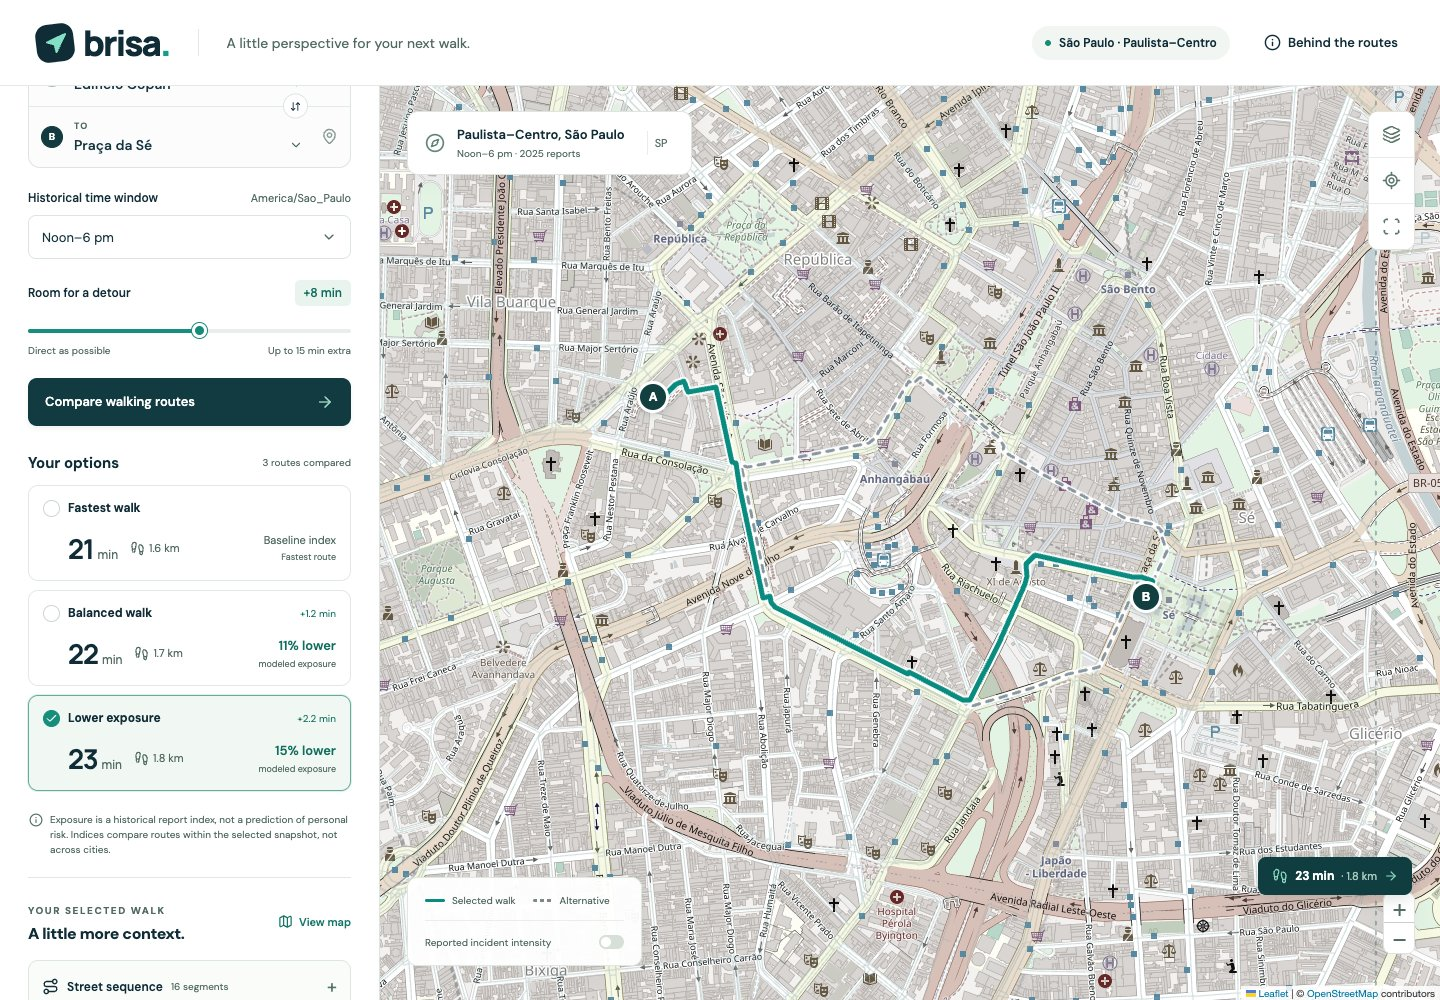
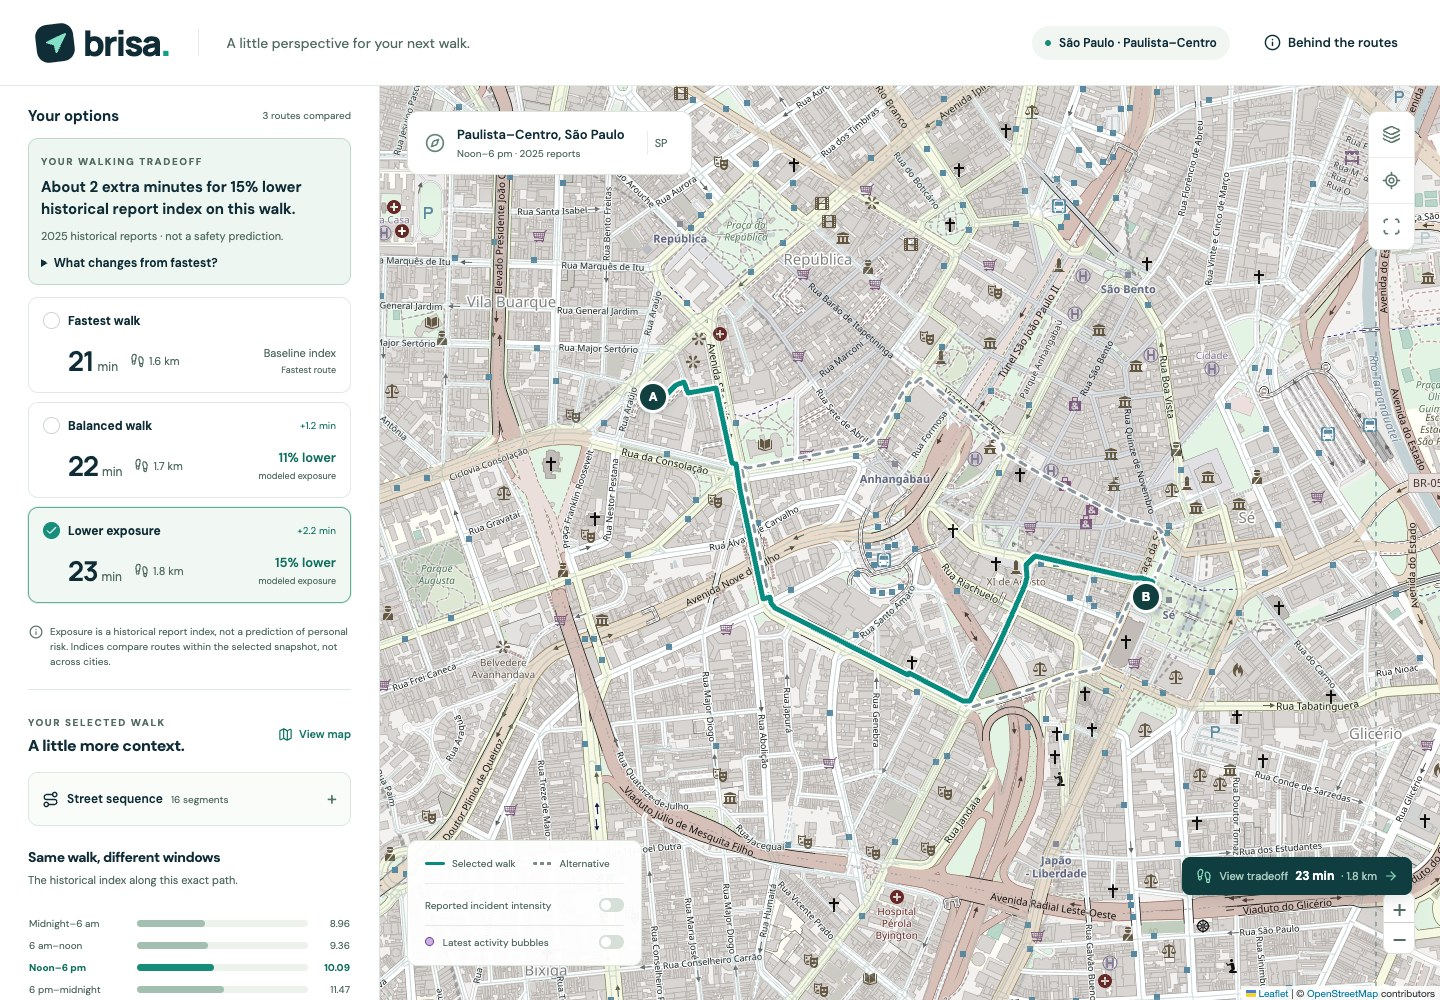
Refresh the council decisions and two-minute hackathon demo

diff --git a/docs/DEMO.md b/docs/DEMO.md
@@ -11,16 +11,23 @@ Open the printed local URL. NYC is the app default. For the LATAM demo, open `/?
 
 ## Two-minute working demo
 
-1. **0:00 — Frame the decision.** Our LATAM team's experiences inspired a walking planner that exposes historical report context alongside time. Begin in São Paulo with Edifício Copan → Praça da Sé, noon–6 pm, eight extra minutes allowed. This is the working Brazil package.
-2. **0:20 — Compare geometry.** Select Fastest walk and a distinct lower-exposure choice if available. The highlighted line is the scored OSM path. Enable reported incident intensity to show aggregate context. The current São Paulo default is about 20.30 minutes fastest versus 22.53 minutes for 14.89% lower modeled exposure (cards round values). Use the displayed values if a package or model changes.
-3. **0:40 — Enforce the budget.** Set Room for a detour to zero, then select Compare walking routes. Old results and their share/export actions disappear until the comparison runs again. Restore eight minutes and select Compare walking routes again before continuing. A distinct alternative is not promised for every request.
-4. **1:00 — Explain the chosen path.** Open Street sequence. These are contiguous named segments, not turn instructions. Same walk, different windows shows the selected geometry's four historical exposure values; choosing another route updates all four.
-5. **1:20 — Share and export.** Share trip reveals the coordinate disclosure and a link; Copy link is optional. Open that link to restore the endpoints, window, budget and semantic route preference. The browser address then retains only the coverage area. Download GPX preserves the selected path; Download summary preserves its street sequence and historical context. Shared links recalculate rather than freeze route geometry.
-6. **1:40 — Show scope and limits.** Show coverage fits the package boundary; Fit routes to map returns to the walk. Show the four-city selector without waiting for another comparison. Say: “São Paulo uses 2,466 eligible pedestrian cellphone theft/robbery reports with known times. Missing times introduce bias. These historical indices do not predict safety or rank cities.” Keep a city switch and SF’s narrow scope for questions.
+1. **0:00 — Start one real decision.** Open São Paulo and select **Try example walk** to restore Edifício Copan → Praça da Sé, noon–6 pm and an eight-minute budget. Introduce the team's LATAM motivation: comparing historical report context alongside walking time.
+2. **0:20 — Choose the tradeoff.** Select Fastest walk, then a distinct lower-exposure choice if available. Read the generated takeaway rather than doing mental arithmetic. The current example is about two extra minutes for a 15% lower historical report index (20.30 versus 22.53 minutes, 14.89% unrounded). Use actual displayed values after any model/data change. A distinct alternative is not promised for every request.
+3. **0:50 — Make the detour concrete.** Open **What changes from fastest?** Show the measured shared/different street sections and the named sections on each walk. Names describe where geometry differs, not why incidents occurred or whether a street is accessible, well lit or safe. Different sections can have the same street name.
+4. **1:20 — Make the choice portable.** Select **Share trip**, show the endpoint-coordinate disclosure and generated link. Explain that opening it recalculates the request; GPX preserves selected geometry. Keep copying, reopening and downloading for questions.
+5. **1:40 — State scope.** Show coverage and conclude: “São Paulo uses 2,466 eligible pedestrian cellphone theft/robbery reports with known times. Missing times introduce bias. This compares historical report indices, not personal safety or cities.” Leave the selected walk on screen.
+
+## Optional questions and demonstrations
+
+- **Does the budget matter?** Set the extra-time budget to zero and compare. Restore the example with Try example walk. Do not imply every budget returns three routes.
+- **Does time change the explanation?** Show Same walk, different windows: four historical scores for the exact selected geometry. These are not current predictions.
+- **Can I choose another street?** Use the bundled street search. It needs no external geocoder; results are limited to named sections in the loaded graph, not street addresses or entrances.
+- **Can I take it with me?** Open the shared link or download GPX/summary. Street sequences are planning references, not verified turn instructions.
+- **What has updated recently?** Use the separate SF segment below, with network access. It does not modify the historical routing model.
 
 For a spoken script and submission draft, use [PITCH.md](PITCH.md).
 
-Actual app captures are available for the presentation: [desktop comparison](screenshots/sao-paulo-desktop.jpg) and [mobile map](screenshots/sao-paulo-mobile.jpg). They show the committed São Paulo demo, with OpenStreetMap attribution retained; they do not establish a public deployment or current street conditions.
+Actual app captures are available for the presentation: [desktop comparison](screenshots/sao-paulo-desktop.jpg), [mobile map](screenshots/sao-paulo-mobile.jpg) and [mobile tradeoff](screenshots/sao-paulo-tradeoff-mobile.jpg). They show the committed São Paulo demo, with OpenStreetMap attribution retained on map captures; they do not establish a public deployment or current street conditions.
 
 ## Optional 30-second activity segment
 
@@ -61,7 +68,7 @@ São Paulo's MASP landmark is named **MASP · Paulista sidewalk**. Its reviewed 
 
 Routing runs in a Web Worker over a real OSM graph. The engine integrates the historical index along route geometry and searches 18 time/exposure tradeoffs, displaying at most three distinct budget-compliant candidates. This is not a guarantee of globally optimal constrained routing.
 
-Run `npm test`, `python3 scripts/test_data.py`, `npm run build`, and `npm run test:e2e`. Browser tests use actual workers and suppress public tile requests. Covered flows include city switching, load recovery, route selection, exact selected GPX coordinates, share-link roundtrips, invalid links, stale-action removal, street sequences and the four-window profile on desktop and mobile. Tests validate implementation behavior; they do not establish predictive accuracy, physical accessibility or improved personal safety.
+Run `npm test`, `python3 scripts/test_data.py`, `npm run build`, and `npm run test:e2e`. Browser tests use actual workers and suppress public tile requests. Covered flows include city switching, load recovery, route selection, exact selected GPX coordinates, share-link roundtrips, invalid links, stale-action removal, street sequences and the four-window profile on desktop and mobile. The refinement suite also covers local name search, keyboard map selection, example reset, route explanations and delayed worker completion during endpoint selection. Tests validate implementation behavior; they do not establish predictive accuracy, physical accessibility or improved personal safety.
 
 ## Honest answers for judges
 

diff --git a/docs/COUNCIL_REFINEMENT.md b/docs/COUNCIL_REFINEMENT.md
@@ -1,0 +1,37 @@
+# Product and engineering council: October 3
+
+Three independent agent reviews represented hackathon-judge, prospective-user and senior-engineering perspectives. The user review inspected desktop and mobile browser flows; these are usability observations, not a field user study.
+
+| Perspective | Finding | Agreed action |
+| --- | --- | --- |
+| Judges | A route's benefit requires mentally combining several card values | Generate a concise selected-versus-fastest takeaway from actual route results |
+| Judges | The core demo attempts too many controls | Center it on one Brazil walk, one tradeoff, one explanation and sharing; keep additional features for questions |
+| Users | Source details and recent activity appear before the main trip controls | Condense coverage metadata and move the activity panel below the planner |
+| Users | Map picking depends on a mouse; landmark choices alone are restrictive | Add keyboard map-center confirmation and local street/landmark search with explicit reference-point semantics |
+| Engineers | Stalled catalog/package fetches can leave indefinite loading | Add bounded header/body deadlines and recoverable messages |
+| Engineers | Rapid edits queue obsolete worker requests | Keep one active search and only the latest waiting request, preserving the prepared graph |
+| Engineers | Manual publishing does not include the browser validation used by CI | Require the browser suite before uploading the deployment artifact |
+
+## Adversarial corrections and boundaries
+
+An initial report that mobile map selection failed to scroll was retracted after allowing the existing smooth-scroll animation to finish. The revised flow improves immediacy and keyboard completion; it is not evidence of a previously broken scroll implementation.
+
+Street-difference explanations use actual graph edge traversals, not guesses from whole street names. The named examples are the two longest differences on each path; the measured shared/different distances include all traversed edges. They never attribute a detour to lighting, accessibility or verified danger. Matching street names can represent different sections, which the explanation states. Approximate time/reduction wording avoids rounding small improvements to zero.
+
+Local search uses the bundled, bounded walking graph and existing landmarks. A street result centers a known graph-node reference; it is not an address, entrance, or street-access audit. The user confirms the map point. No external geocoder or address-history store is added.
+
+Recent dispatch calls remain informational. More cities, prediction models, emergency alerts, accounts, location tracking and fragmented localization were deferred in favor of a clearer, more reliable walking decision.
+
+The final engineering pass caught pending route results recentering the map during endpoint selection. A real-worker delayed-response test reproduces a greater-than-one-kilometre unintended shift without the guard and preserves the chosen reference within one metre with it. Integration also corrected interrupted loads on same-city reselection and kept the mobile tradeoff shortcut compact enough to preserve the tested activity-bubble interaction.
+
+## What the project verifies
+
+- Connected OSM geometry and complete historical scoring coverage for displayed paths.
+- Every displayed candidate satisfies the exact, unrounded added-time budget.
+- The selected geometry matches GPX output; shared requests are validated and recalculated.
+- Source-specific definitions, timing, coverage and report/call units remain explicit.
+- Cancellation, stalled loading, superseded requests and keyboard interactions have targeted checks.
+
+These checks do not establish predictive accuracy, current street access, physical accessibility or a personal-safety benefit. The original architecture council remains in [PLAN.md](PLAN.md); current city and feed scope lives in [MULTICITY.md](MULTICITY.md) and [LIVE_ACTIVITY.md](LIVE_ACTIVITY.md).
+
+Local validation for this round passed 144 unit tests, 25 Python data checks and 66 desktop/mobile browser tests, including automated accessibility checks. A production build under `/BigRedHacks/` loaded and planned all four cities, restored a shared request, exercised local search and example reset, and loaded its worker/assets without local HTTP errors. Updated demo captures are linked from [DEMO.md](DEMO.md).

diff --git a/docs/PITCH.md b/docs/PITCH.md
@@ -4,15 +4,15 @@
 
 **0:00–0:20 — Why.** “Our LATAM team's experiences inspired a question: what if a walking planner made local context visible alongside arrival time? Brisa compares walks using historical reported incidents and lets you decide how much extra walking time to allow.”
 
-**0:20–0:50 — Show the decision.** Open `/?area=sao-paulo-centro`: Edifício Copan → Praça da Sé, noon–6 pm, eight extra minutes. Select Fastest walk, then Lower exposure if available. “These lines follow real OpenStreetMap streets. Each card shows the walking time and modeled report exposure. The extra-time budget is a constraint on every displayed choice.” Set the budget to zero and compare again.
+**0:20–0:50 — Show one decision.** Open `/?area=sao-paulo-centro` and select **Try example walk**. Select a distinct lower-exposure route if available. Read its generated takeaway: the current example offers about two extra minutes for a 15% lower historical report index. “These lines follow real OpenStreetMap streets. Every displayed choice respects the extra-time budget.” Use actual returned values, not a memorized promise.
 
-**0:50–1:15 — Make it explainable.** Restore the budget and select Compare walking routes again. Open Street sequence and show Same walk, different windows. “These four values score this exact path against four historical local-time windows. They do not silently substitute four different routes. Street names describe the path; they are not verified turn instructions.”
+**0:50–1:20 — Show what changed.** Open **What changes from fastest?** “Here are the street sections shared by the walks, and the sections that differ. We explain the actual geometry, not an invented claim about why a street is safer.” Point to one named section and the highlighted path.
 
-**1:15–1:35 — Make it portable.** Select Share trip. “Sharing is explicit: this link contains both locations. Opening it recalculates the request. GPX preserves the selected geometry, and the summary carries its historical context.” Show coverage and point out the four-city selector. Keep another city load for questions.
+**1:20–1:40 — Make it portable.** Select Share trip. “Sharing is explicit: this link contains both locations and recalculates the request. GPX preserves the selected geometry.” Keep downloading and reopening for questions.
 
-**1:35–2:00 — State the boundary and next step.** “São Paulo uses 2,466 eligible pedestrian cellphone theft/robbery reports. Missing times introduce bias. This models historical reports, not your probability of harm. We compare walks within a package, never rank cities. Next: local-user street audits and sensitivity testing.”
+**1:40–2:00 — State the boundary.** “São Paulo uses 2,466 eligible pedestrian cellphone theft/robbery reports. Missing times introduce bias. This models historical reports, not your probability of harm. We compare walks within a package, never rank cities. Next: local-user street audits and sensitivity testing.”
 
-If a distinct lower-exposure alternative is unavailable, show the explanatory message. Do not imply every request has one.
+If a distinct alternative is unavailable, show the explanation honestly. Keep zero-budget proof, the four-window profile, bundled offline street search, and SF's delayed unverified dispatch bubbles for optional questions; see [DEMO.md](DEMO.md). The core presentation stays on one Brazil walking decision.
 
 ## Devpost-ready factual draft
 

diff --git a/README.md b/README.md
@@ -55,8 +55,10 @@ Available public data still needs a usable occurrence time, location, incident d
 ## What the planner does
 
 - Selects a city/coverage package, landmarks or map endpoints, a local historical time window, and an extra-time budget.
+- Searches bundled street/landmark names, supports keyboard map-center selection, and restores a ready-to-compare trip with **Try example walk**.
 - Computes routes along real OpenStreetMap walking geometry and integrates the report index along each displayed path.
 - Shows distinct fastest/lower-index candidates that satisfy the exact budget, with time and distance alongside exposure comparisons.
+- Summarizes the selected route's tradeoff and explains which actual street sections differ from the fastest route.
 - Displays aggregate report context, package-specific dates, timezone, eligibility, sources and route explanations.
 - Offers an optional latest-activity bubble layer: unverified SF dispatch calls and delayed published NYC/Chicago reports, with source windows and freshness visible. It does not change historical route scores; São Paulo has no verified recent feed.
 - Shows contiguous street segments and four historical-window scores for the exact selected path.
@@ -85,6 +87,7 @@ flowchart LR
 | --- | --- | --- |
 | Multi-city design | [docs/MULTICITY.md](docs/MULTICITY.md) | Coverage model, source boundaries and expansion decisions |
 | Original council | [docs/PLAN.md](docs/PLAN.md) | Product tradeoffs and initial model |
+| Refinement council | [docs/COUNCIL_REFINEMENT.md](docs/COUNCIL_REFINEMENT.md) | Judge, user and engineering reviews; resulting changes and boundaries |
 | Demo walkthrough | [docs/DEMO.md](docs/DEMO.md) | Two-minute demo and local fallback |
 | Pitch kit | [docs/PITCH.md](docs/PITCH.md) | Spoken pitch and factual submission draft |
 | Manual deployment | [docs/DEPLOY.md](docs/DEPLOY.md) | Publication instructions; not a claim of a live deployment |

diff --git a/docs/PLAN.md b/docs/PLAN.md
@@ -1,5 +1,7 @@
 # Brisa: agreed hackathon plan
 
+**Historical plan:** this document records the original Chicago MVP decision. The current implementation supports four bounded city packages, including São Paulo, with route tradeoff explanations, sharing/exports, bundled street search and a separate optional latest-activity layer. See [README](../README.md), [DEMO.md](DEMO.md) and [LIVE_ACTIVITY.md](LIVE_ACTIVITY.md) for current scope; original single-city scope and roadmap statements below are preserved as decision history.
+
 Status: council decision accepted October 2, 2026; MVP implemented and validated October 3, 2026.
 
 Implementation refinement, October 3: the incident place filter includes public parks, waterfronts, bridges and bus stops as well as streets/sidewalks. The street graph includes these outdoor pedestrian spaces, so excluding their reports would create an artificial advantage. The final snapshot contains 3,064 eligible reports from 21,349 verified source records. See DATA.md for the exact allowlist and reproducible query.
